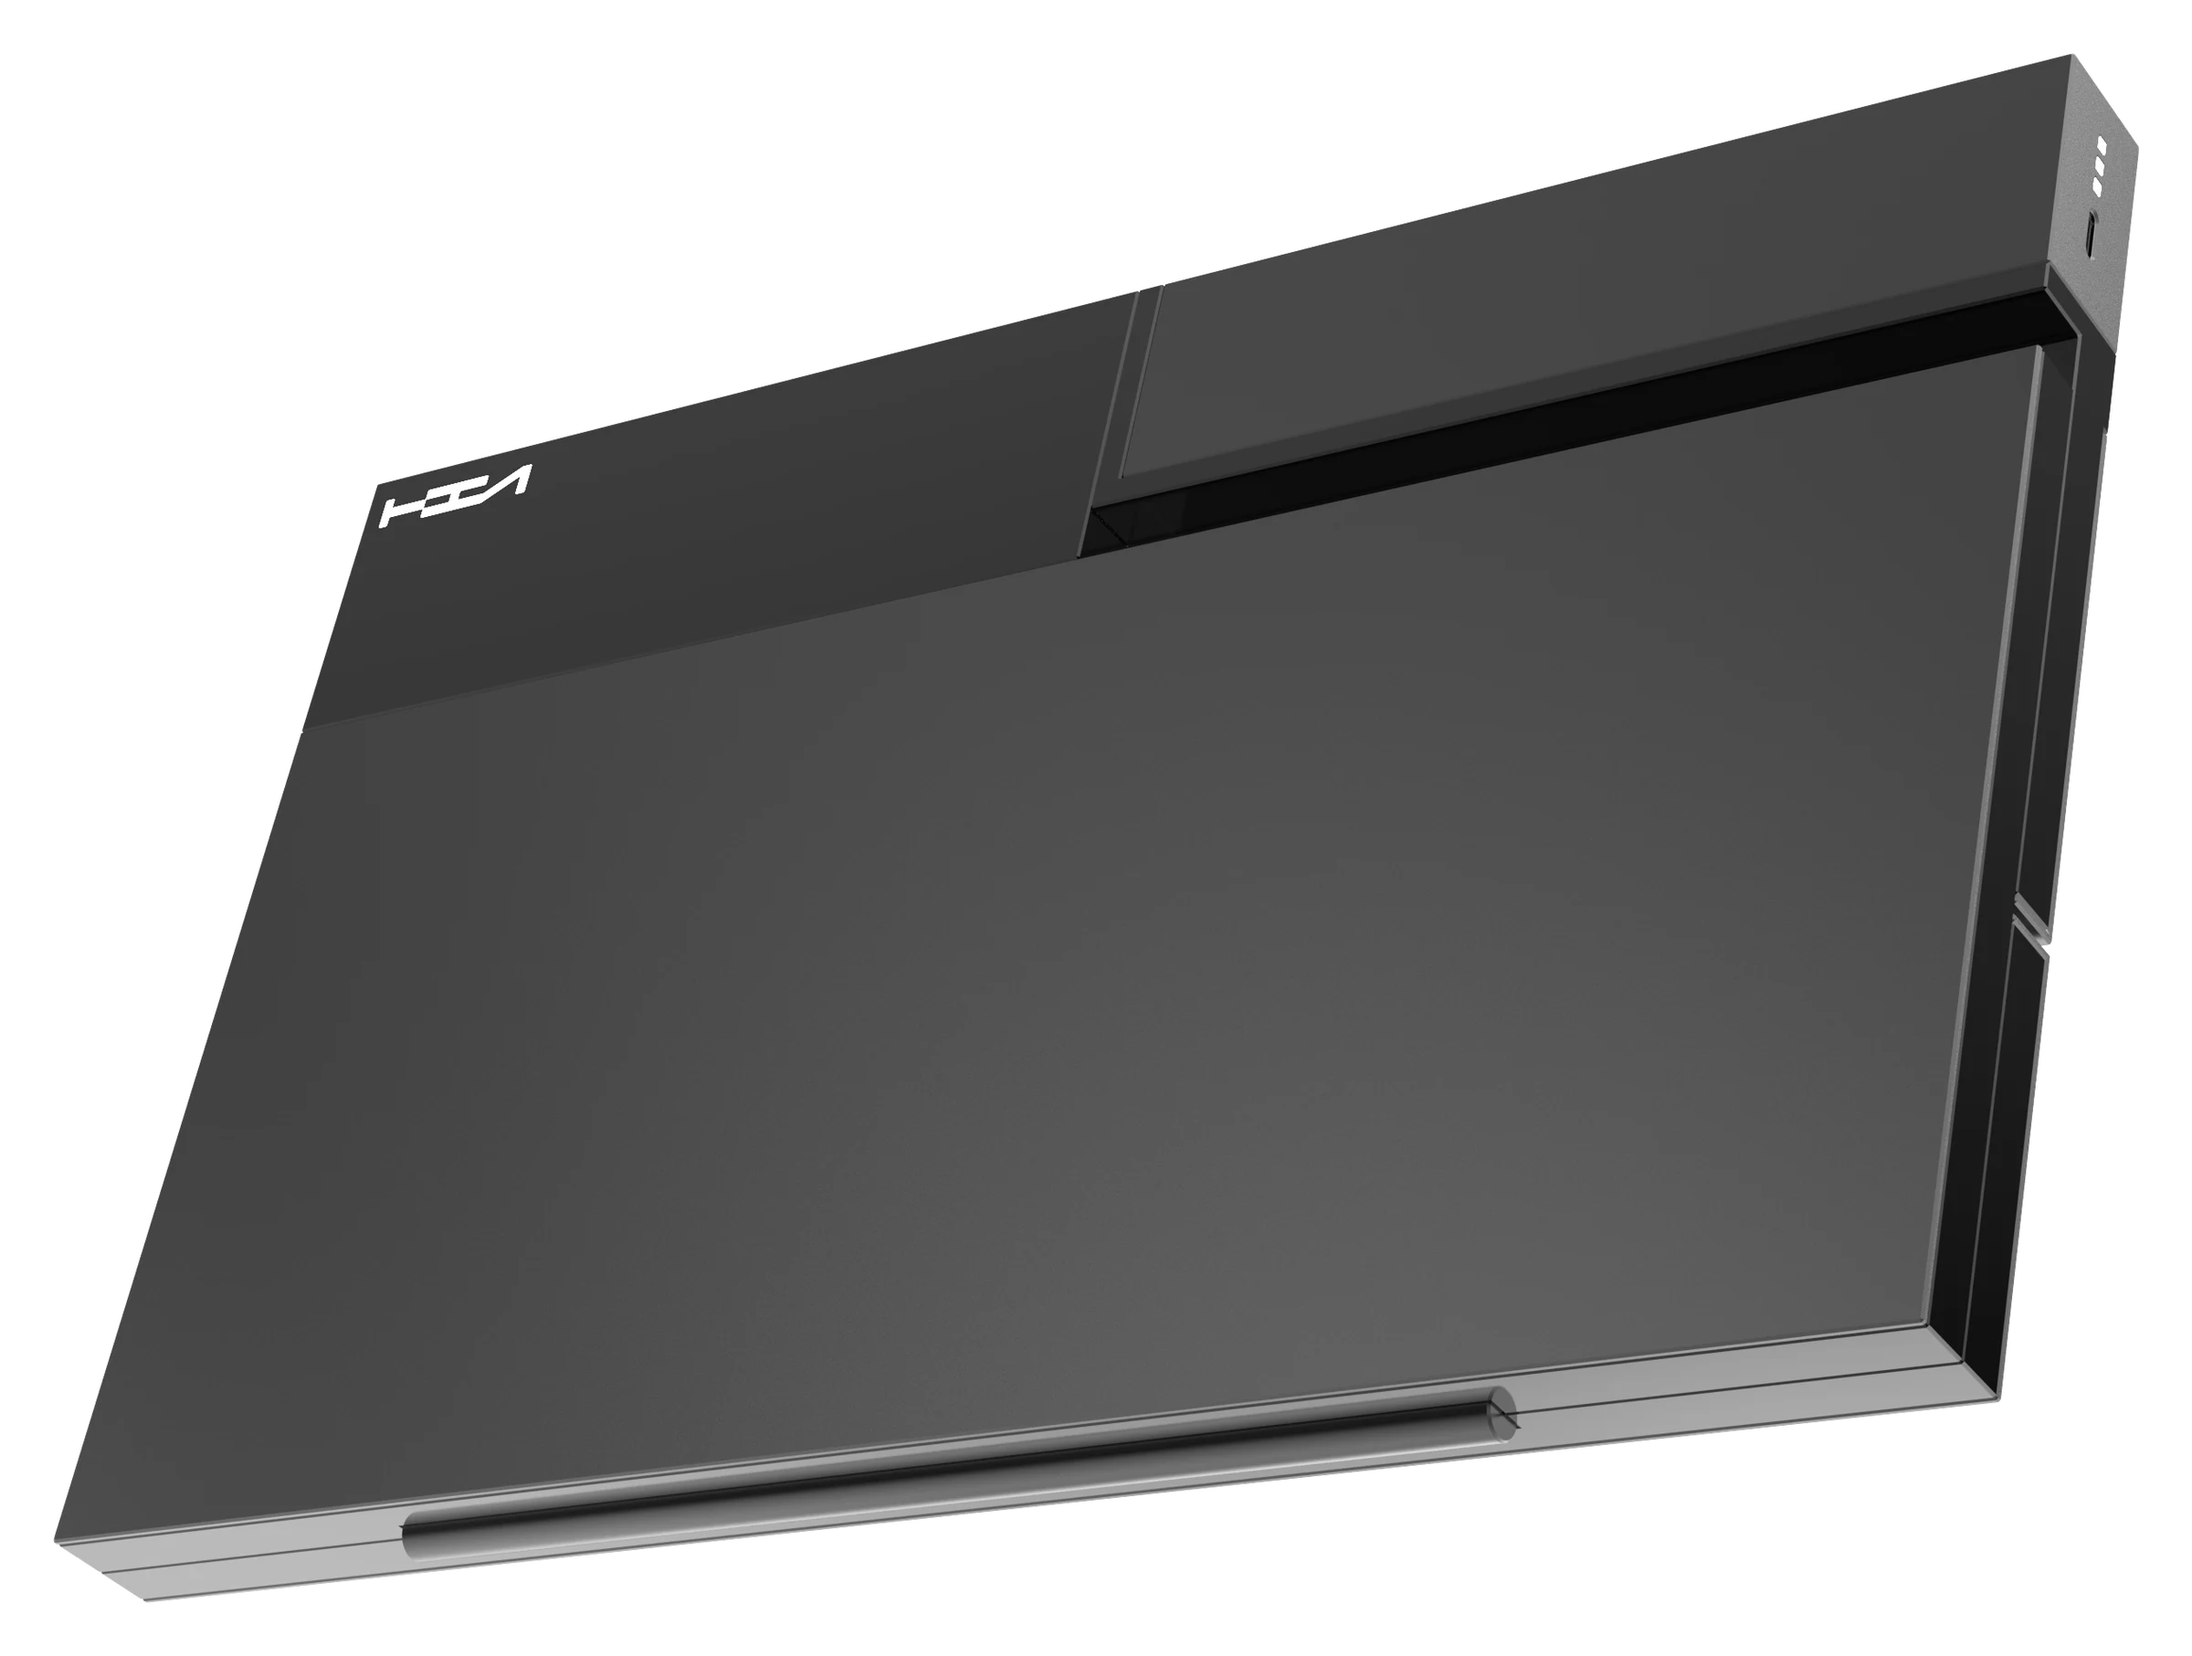
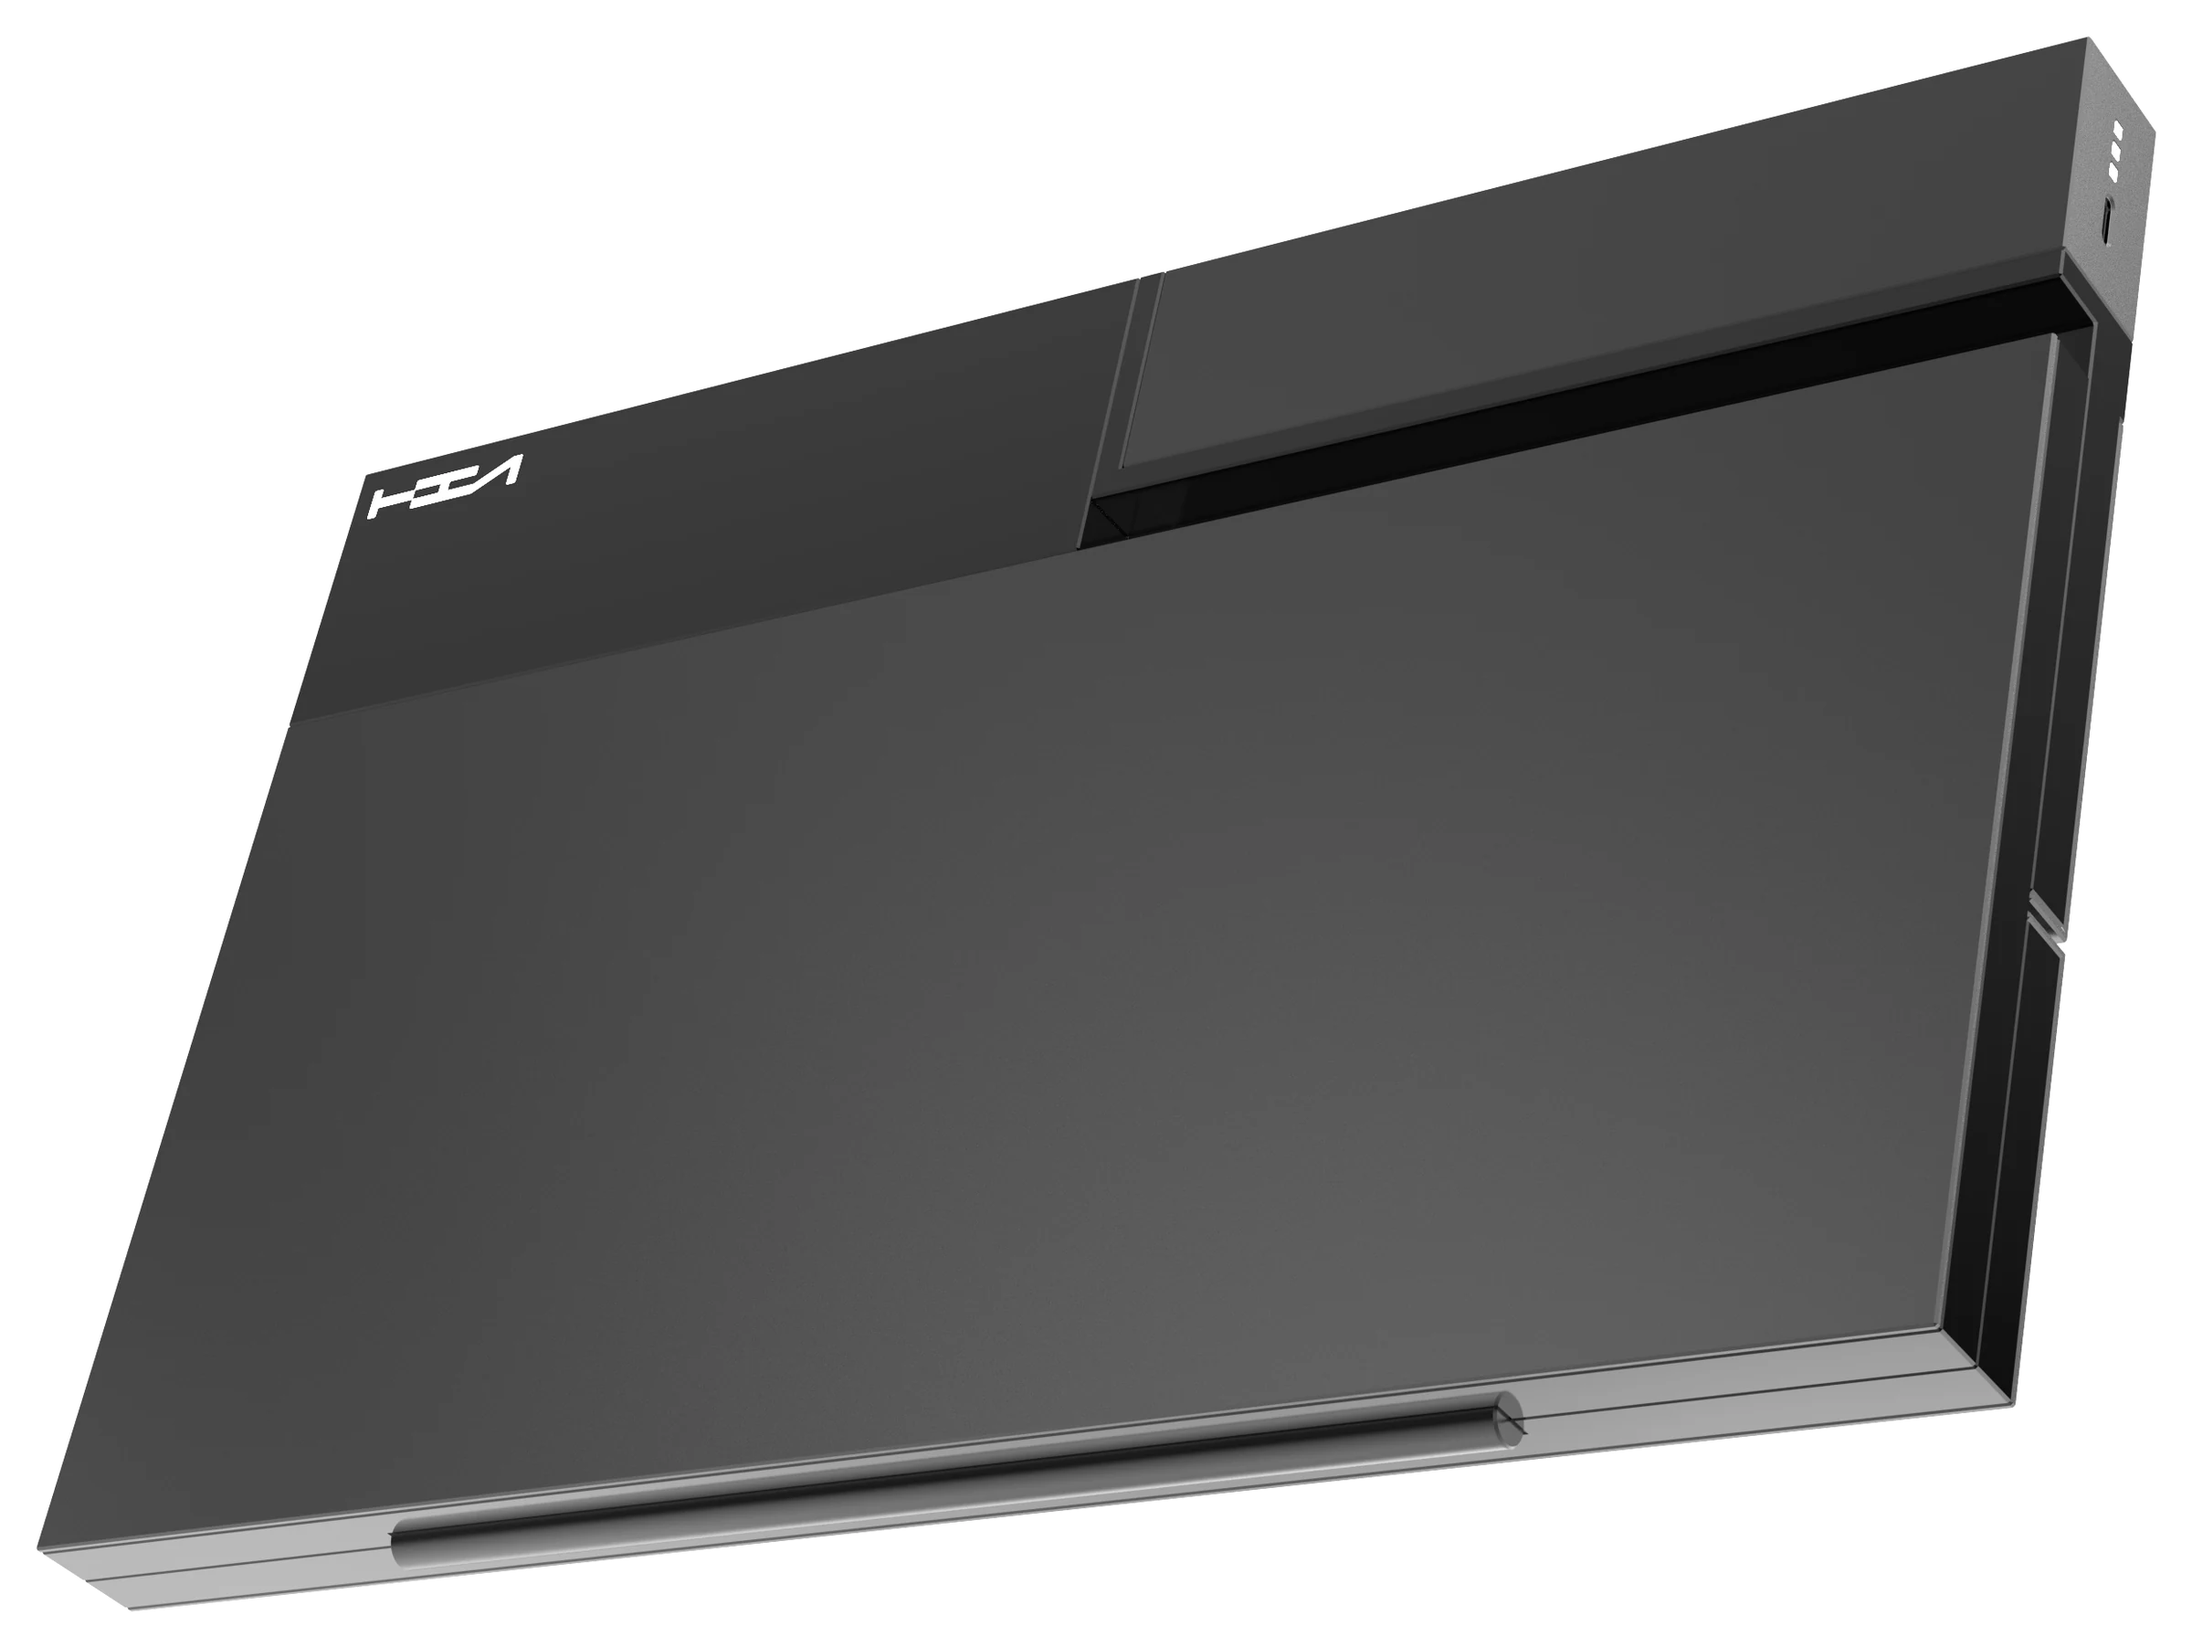
Colour renders: re-cut so the light top-right corner and port side aren't clipped
The previous mask treated near-white highlights as background; now only pure white counts.

Claude-Session: https://claude.ai/code/session_01877NMfYCzRSJ6EX6AActtj

diff --git a/index.html b/index.html
@@ -3067,7 +3067,7 @@ html[data-view="shop"] #navShop span, html[data-view="shop"] #navShop .nav-sq{co
   <h2 class="hxl-head">A closer look</h2>
   <div class="hxl-stage">
     <div class="hxl-media" aria-hidden="true">
-      <figure class="hxl-m fill on" data-k="intro"><img src="assets/product/u65.webp" alt="" loading="lazy" decoding="async"></figure><figure class="hxl-m" data-k="colors"><img src="assets/product/color-gray.webp" alt="" loading="lazy" decoding="async"></figure><figure class="hxl-m fill" data-k="size"><img src="assets/product/hin2.webp" alt="" loading="lazy" decoding="async"><span class="hxl-stat">1.2<small>kg</small></span></figure><figure class="hxl-m fill" data-k="quick"><img src="assets/product/hin2-85.webp" alt="" loading="lazy" decoding="async"></figure><figure class="hxl-m" data-k="light"><img src="assets/product/r101.webp" alt="" loading="lazy" decoding="async"></figure><figure class="hxl-m" data-k="power"><img src="assets/product/r99.webp" alt="" loading="lazy" decoding="async"><span class="hxl-stat">65<small>Wh</small></span></figure><figure class="hxl-m fill" data-k="pad"><img src="assets/product/r28.webp" alt="" loading="lazy" decoding="async"></figure><figure class="hxl-m fill" data-k="mark"><img src="assets/product/r87.webp" alt="" loading="lazy" decoding="async"></figure><figure class="hxl-m fill" data-k="stable"><img src="assets/d03-stable.webp?v=3" alt="" loading="lazy" decoding="async"><span class="hxl-stat">11–16<small>&Prime;</small></span></figure>
+      <figure class="hxl-m fill on" data-k="intro"><img src="assets/product/u65.webp" alt="" loading="lazy" decoding="async"></figure><figure class="hxl-m" data-k="colors"><img src="assets/product/color-gray.webp?v=2" alt="" loading="lazy" decoding="async"></figure><figure class="hxl-m fill" data-k="size"><img src="assets/product/hin2.webp" alt="" loading="lazy" decoding="async"><span class="hxl-stat">1.2<small>kg</small></span></figure><figure class="hxl-m fill" data-k="quick"><img src="assets/product/hin2-85.webp" alt="" loading="lazy" decoding="async"></figure><figure class="hxl-m" data-k="light"><img src="assets/product/r101.webp" alt="" loading="lazy" decoding="async"></figure><figure class="hxl-m" data-k="power"><img src="assets/product/r99.webp" alt="" loading="lazy" decoding="async"><span class="hxl-stat">65<small>Wh</small></span></figure><figure class="hxl-m fill" data-k="pad"><img src="assets/product/r28.webp" alt="" loading="lazy" decoding="async"></figure><figure class="hxl-m fill" data-k="mark"><img src="assets/product/r87.webp" alt="" loading="lazy" decoding="async"></figure><figure class="hxl-m fill" data-k="stable"><img src="assets/d03-stable.webp?v=3" alt="" loading="lazy" decoding="async"><span class="hxl-stat">11–16<small>&Prime;</small></span></figure>
     </div>
     <div class="hxl-nav"><button type="button" class="hxl-up" aria-label="이전 항목" disabled><svg class="up" viewBox="0 0 69 69" fill="none" aria-hidden="true"><path d="M19.182 56.5508L26.8021 56.5508L45.701 37.6548L45.701 31.2486L26.8021 12.3497L19.182 12.3497L19.182 8.32937L28.4674 8.33217L49.6652 29.53L49.7185 29.53L49.7185 39.3173L28.4674 60.5712L19.182 60.5712L19.182 56.5508Z" fill="currentColor"/></svg></button><button type="button" class="hxl-down" aria-label="다음 항목"><svg class="dn" viewBox="0 0 69 69" fill="none" aria-hidden="true"><path d="M19.182 56.5508L26.8021 56.5508L45.701 37.6548L45.701 31.2486L26.8021 12.3497L19.182 12.3497L19.182 8.32937L28.4674 8.33217L49.6652 29.53L49.7185 29.53L49.7185 39.3173L28.4674 60.5712L19.182 60.5712L19.182 56.5508Z" fill="currentColor"/></svg></button></div>
     <div class="hxl-lw"><ul class="hxl-list">
@@ -4370,8 +4370,8 @@ document.addEventListener('touchstart',()=>{},{passive:true});
   x.addEventListener('click',()=>{ const f=cur; set(-1); if(f>=0) items[f].querySelector('.hxl-pill').focus({preventScroll:true}); });
   s.addEventListener('keydown',e=>{ if(e.key==='Escape'&&cur>=0){ x.click(); } else if((e.key==='ArrowDown'||e.key==='ArrowUp')&&cur>=0){ e.preventDefault(); (e.key==='ArrowDown'?down:up).click(); } });
   const sw=[...s.querySelectorAll('.hxl-sw button')], cl=[...s.querySelectorAll('.hxl-cl span')], dot=s.querySelector('.hxl-ic.dot');
-  sw.forEach((b,i)=>b.addEventListener('click',()=>{ sw.forEach((o,j)=>{ o.classList.toggle('on',j===i); o.setAttribute('aria-pressed',j===i?'true':'false'); }); cl.forEach((o,j)=>o.classList.toggle('on',j===i)); if(dot) dot.style.background=getComputedStyle(b).getPropertyValue('--c'); const ci=s.querySelector('.hxl-m[data-k="colors"] img'); if(ci) ci.src='assets/product/color-'+['gray','black','yellow'][i]+'.webp'; }));
-  ['black','yellow'].forEach(c=>{ const im=new Image(); im.src='assets/product/color-'+c+'.webp'; });
+  sw.forEach((b,i)=>b.addEventListener('click',()=>{ sw.forEach((o,j)=>{ o.classList.toggle('on',j===i); o.setAttribute('aria-pressed',j===i?'true':'false'); }); cl.forEach((o,j)=>o.classList.toggle('on',j===i)); if(dot) dot.style.background=getComputedStyle(b).getPropertyValue('--c'); const ci=s.querySelector('.hxl-m[data-k="colors"] img'); if(ci) ci.src='assets/product/color-'+['gray','black','yellow'][i]+'.webp?v=2'; }));
+  ['black','yellow'].forEach(c=>{ const im=new Image(); im.src='assets/product/color-'+c+'.webp?v=2'; });
   measure(); (document.fonts&&document.fonts.ready?document.fonts.ready:Promise.resolve()).then(measure); addEventListener('resize',measure);
 })();
 </script>
